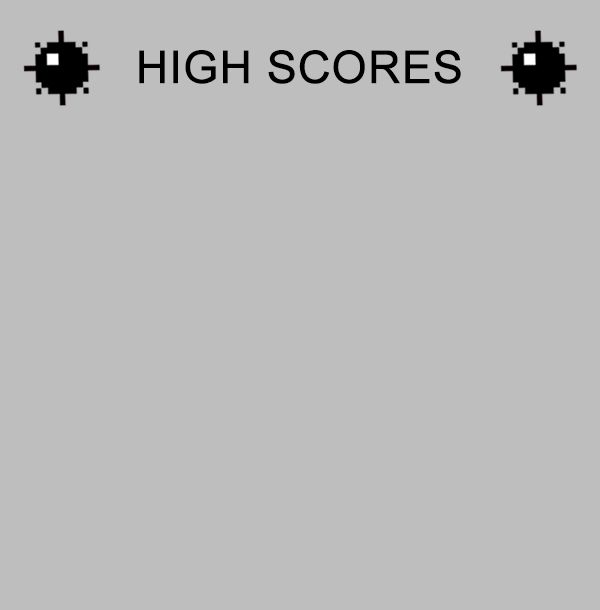
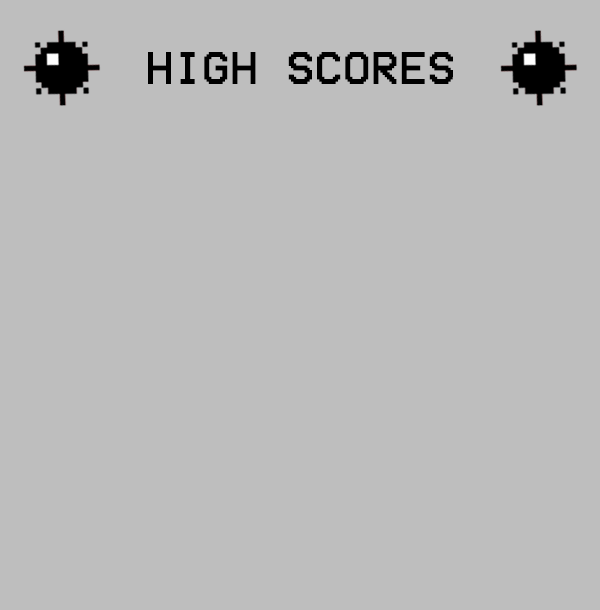
Changed fonts for background images and for main menu buttons.

Changed region(s): [[0.21, 0.0623, 0.78, 0.1557]]

diff --git a/Minesweeper/MainMenu.java b/Minesweeper/MainMenu.java
@@ -84,7 +84,7 @@ public class MainMenu extends JFrame implements ActionListener, MouseListener {
 
     public void addInstructions() {
         instructionsButton = new JButton("Instructions");
-        instructionsButton.setFont(standardFont);
+        instructionsButton.setFont(pixelFont);
         instructionsButton.setOpaque(true);
         instructionsButton.setBackground(darkerGray);
         instructionsButton.setForeground(darkerWhite);
@@ -98,7 +98,7 @@ public class MainMenu extends JFrame implements ActionListener, MouseListener {
     
     public void addHighScores() {
         highScoresButton = new JButton("High Scores");
-        highScoresButton.setFont(standardFont);
+        highScoresButton.setFont(pixelFont);
         highScoresButton.setOpaque(true);
         highScoresButton.setBackground(darkerGray);
         highScoresButton.setForeground(darkerWhite);
@@ -161,7 +161,7 @@ public class MainMenu extends JFrame implements ActionListener, MouseListener {
 
     public void addFonts() {
         try {
-            pixelFont = Font.createFont(Font.TRUETYPE_FONT, new FileInputStream(new File("VCR_OSD_MONO_1.001.ttf"))).deriveFont(Font.PLAIN, 19);   
+            pixelFont = Font.createFont(Font.TRUETYPE_FONT, new FileInputStream(new File("VCR_OSD_MONO_1.001.ttf"))).deriveFont(Font.PLAIN, 20);   
         } catch (FileNotFoundException e) {
             e.addSuppressed(e);
         } catch (FontFormatException e) {

diff --git a/Minesweeper/HighScores.java b/Minesweeper/HighScores.java
@@ -1,6 +1,28 @@
+import java.io.*;
+    import java.util.*;
+    import java.awt.Color;
+    import java.awt.Dimension;
+    import java.awt.FlowLayout;
+    import java.awt.Font;
+import java.awt.FontFormatException;
+import java.awt.Insets;
+    import java.awt.event.ActionEvent;
+    import java.awt.event.ActionListener;
+    import java.awt.event.MouseListener;
+    import java.awt.Event;
+    import java.awt.event.MouseEvent;
+
+import java.util.EventObject;
+
+import javax.swing.BorderFactory;
 import javax.swing.ImageIcon;
-import javax.swing.JFrame;
-import javax.swing.JLabel;
+    import javax.swing.JButton;
+    import javax.swing.JFrame;
+    import javax.swing.JLabel;
+    import javax.swing.JPanel;
+    import javax.swing.SwingConstants;
+
+import org.w3c.dom.css.RGBColor;
 
 public class HighScores extends JFrame {
 

diff --git a/Minesweeper/Instructions.java b/Minesweeper/Instructions.java
@@ -1,4 +1,28 @@
-import javax.swing.JFrame;
+import java.io.*;
+    import java.util.*;
+    import java.awt.Color;
+    import java.awt.Dimension;
+    import java.awt.FlowLayout;
+    import java.awt.Font;
+import java.awt.FontFormatException;
+import java.awt.Insets;
+    import java.awt.event.ActionEvent;
+    import java.awt.event.ActionListener;
+    import java.awt.event.MouseListener;
+    import java.awt.Event;
+    import java.awt.event.MouseEvent;
+
+import java.util.EventObject;
+
+import javax.swing.BorderFactory;
+import javax.swing.ImageIcon;
+    import javax.swing.JButton;
+    import javax.swing.JFrame;
+    import javax.swing.JLabel;
+    import javax.swing.JPanel;
+    import javax.swing.SwingConstants;
+
+import org.w3c.dom.css.RGBColor;
 
 public class Instructions extends JFrame {
 
